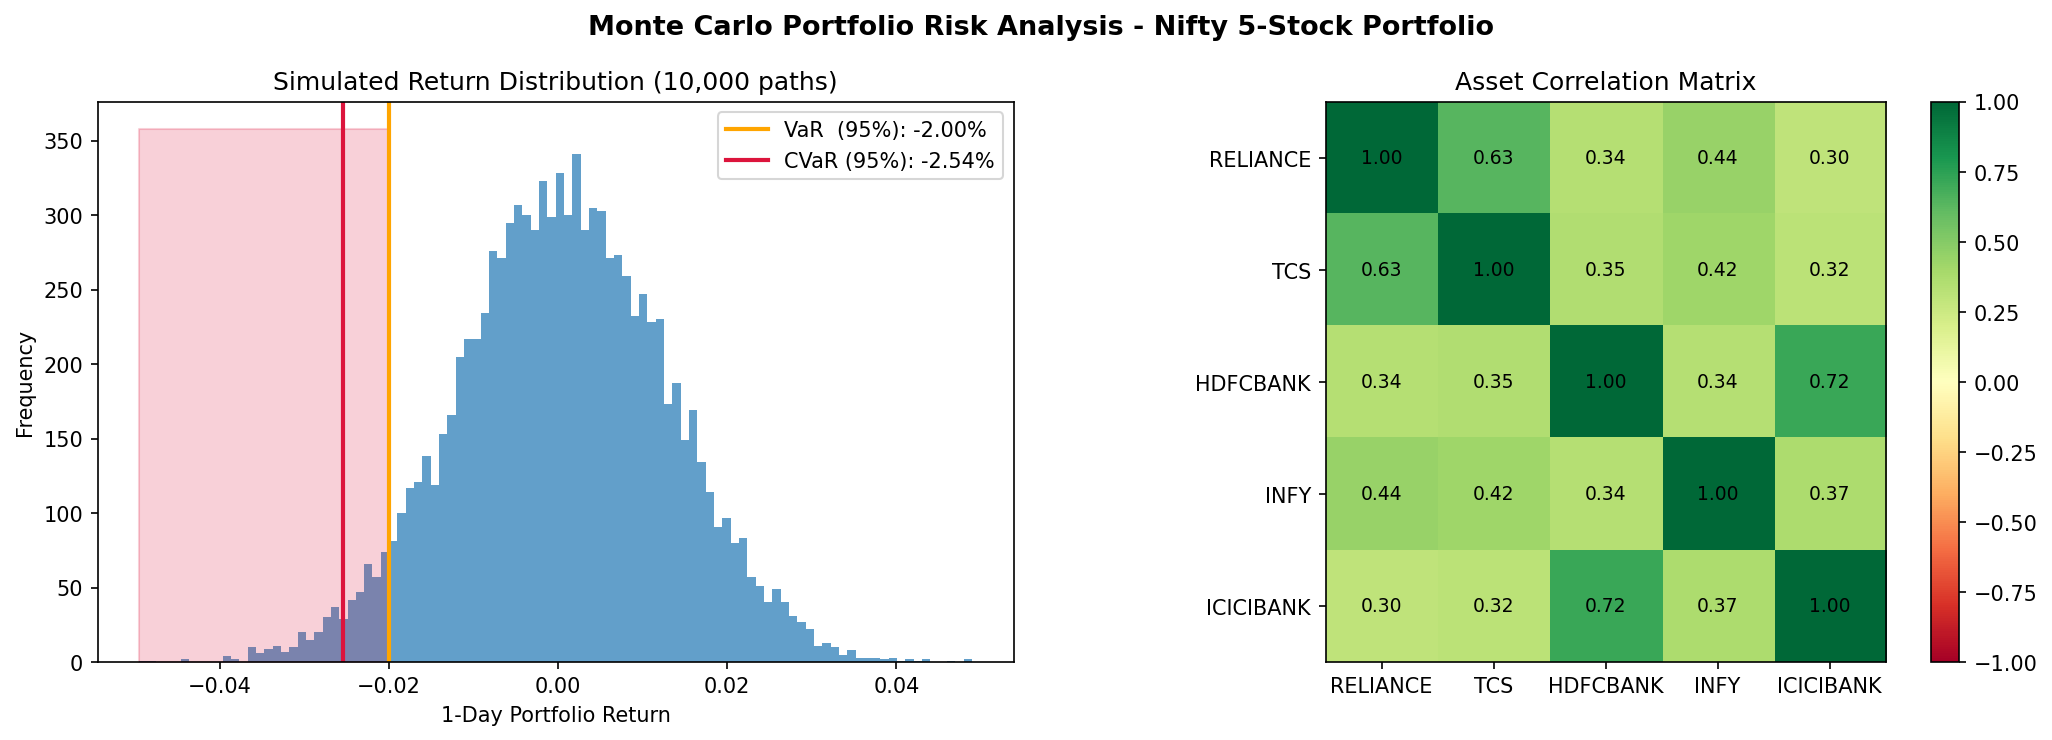
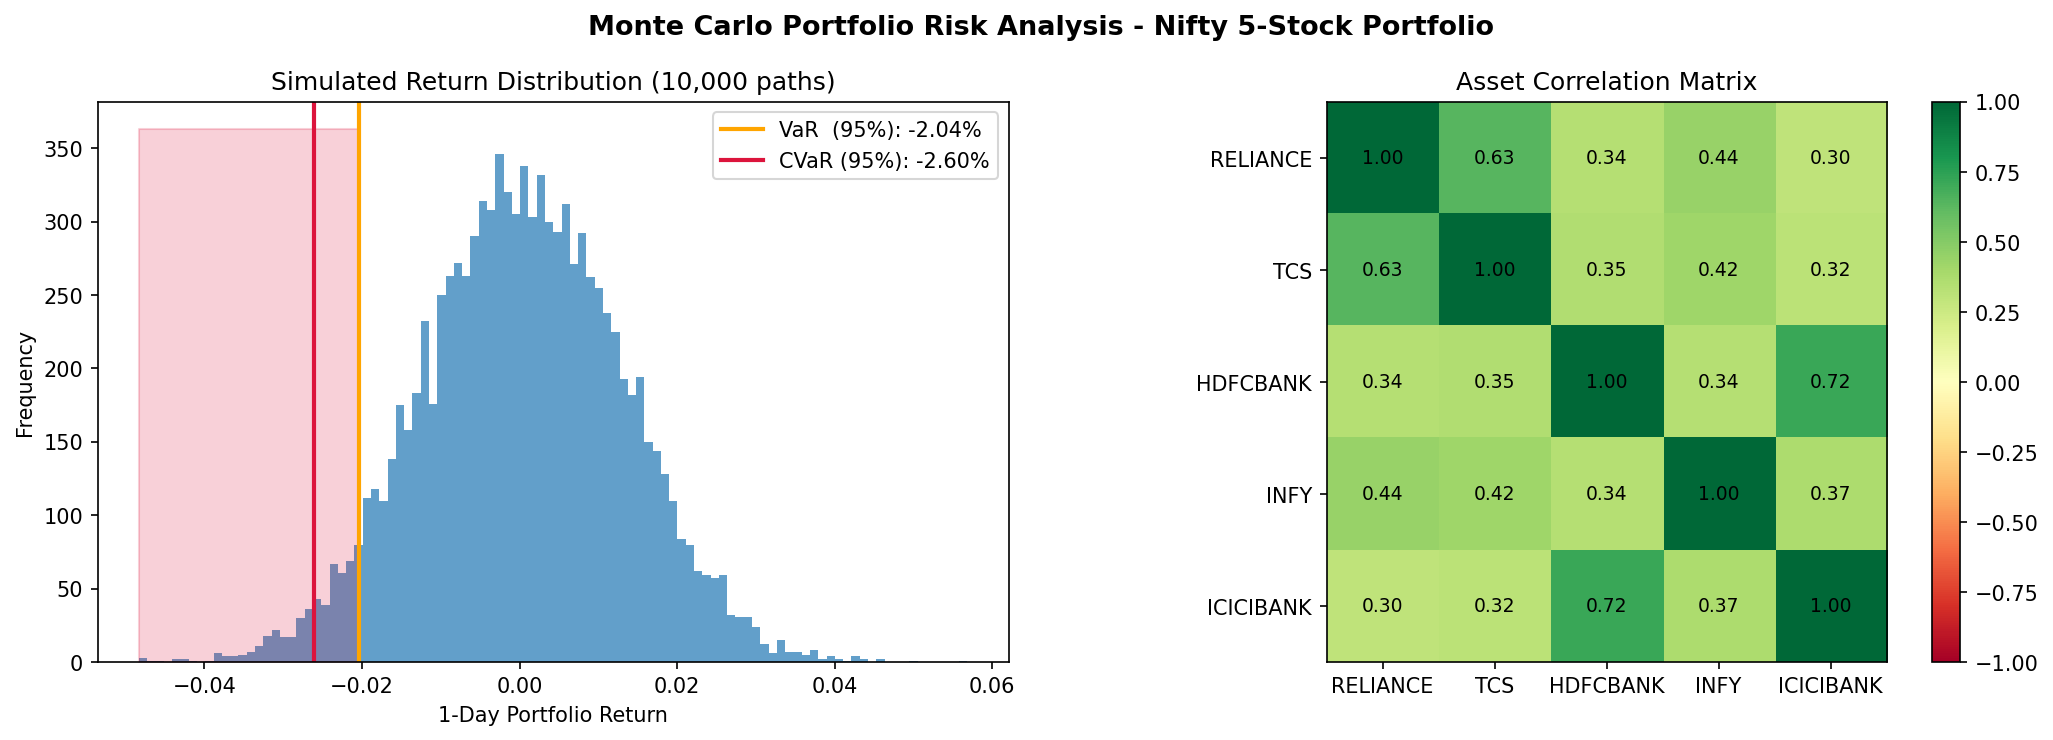
Now used total market cap to assign weights for each stock.

diff --git a/README.md b/README.md
@@ -6,6 +6,7 @@ Instead of relying purely on historical backtesting, this engine uses a **Monte 
 
 ## Key Features
 * **Live Financial Data Integration:** Automatically pulls historical tick data via the `yfinance` API.
+* **Dynamic Market Cap Weighting:** After initially constructing and validating the model using a standard Equal Weighting baseline ($1/N$), the engine was upgraded to fetch live market capitalizations. It now dynamically assigns portfolio weights to each asset based on their real-world scale relative to the total portfolio.
 * **Correlated Asset Paths:** Implements Cholesky Decomposition on the historical correlation matrix to ensure that simulated random numbers respect the real-world statistical relationships between assets.
 * **Massive Scale Simulation:** Simulates 10,000 independent trading days across the portfolio using `numpy`'s vectorized matrix multiplication for extreme performance.
 * **Institutional Risk Metrics:**
@@ -25,7 +26,7 @@ Instead of relying purely on historical backtesting, this engine uses a **Monte 
 2. **Decomposition:** It mathematically breaks down the correlation matrix into a lower-triangular matrix $L$.
 3. **Simulation:** It generates a massive matrix of pure, independent random variables $Z$ and mathematically "injects" the historical correlation via a dot product ($Z \cdot L^{T}$).
 4. **Scaling:** The correlated random numbers are scaled by historical volatility and shifted by historical drift.
-5. **Portfolio Aggregation:** The individual asset simulations are combined using defined portfolio weights (e.g., Equal Weighting).
+5. **Portfolio Aggregation:** The individual asset simulations are combined using defined portfolio weights. While initially modeled with Equal Weights as a baseline, the aggregation is now driven by live Market Capitalization data, ensuring that larger companies command a proportionately larger impact on the simulated portfolio.
 6. **Risk Analysis:** The engine sorts the 10,000 portfolio outcomes to isolate the worst 5% of days, deriving the VaR and CVaR metrics.
 
 ## Getting Started
